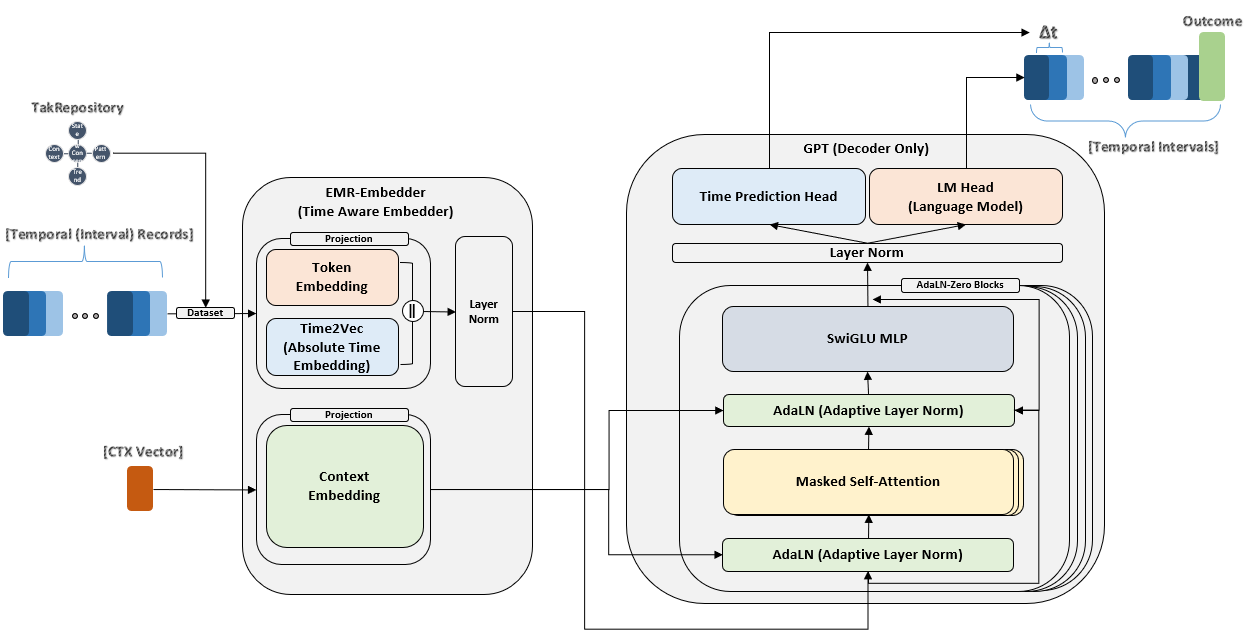
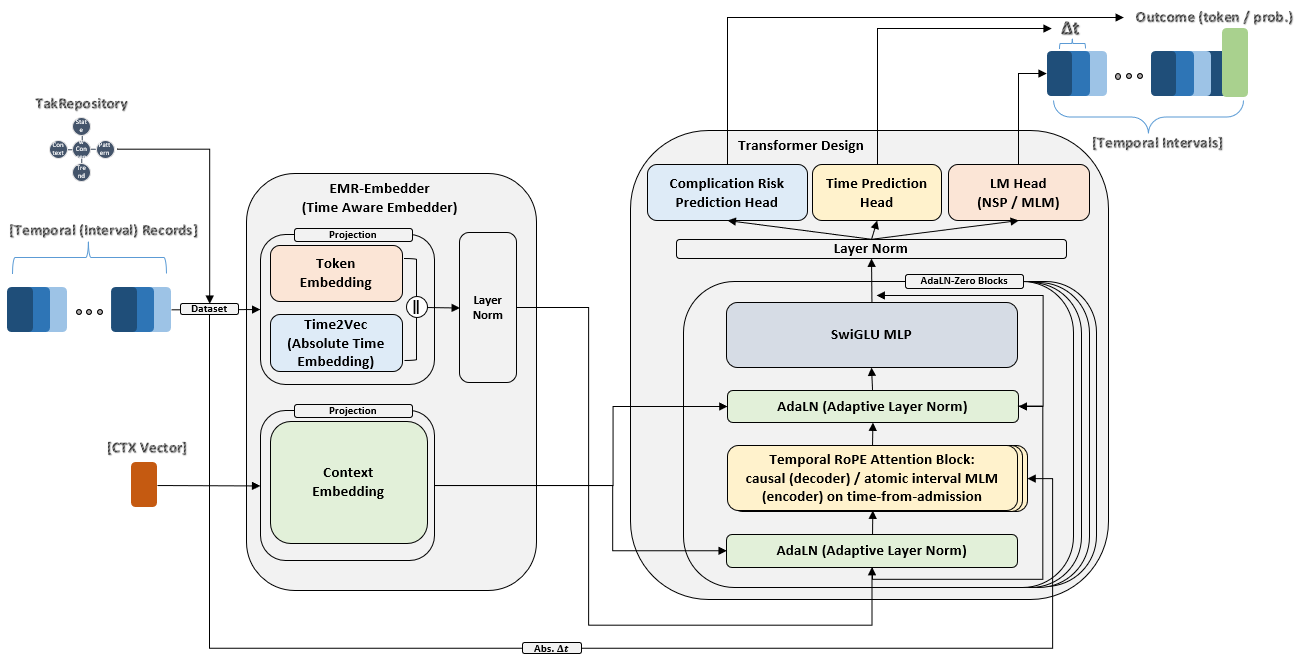
docs: refresh model diagram and tree-root label
- README.md: rename project-tree root label transform-emr/ -> root/.
- images/Model Sceme.png: updated model-schema diagram.

diff --git a/README.md b/README.md
@@ -9,7 +9,7 @@ This repo is part of an unpublished thesis and will be finalized post-submission
 The results shown here (in `evaluation.ipynb`) are on random data, as my research dataset is private. This model will be used on actual EMR data, stored in a closed environment. For that, it is organized as a package that can be installed:
 
 ```bash
-transform-emr/
+root/
 │
 ├── intervene_ar/                     # Core Python package
 │   ├── config/                        # Configuration modules